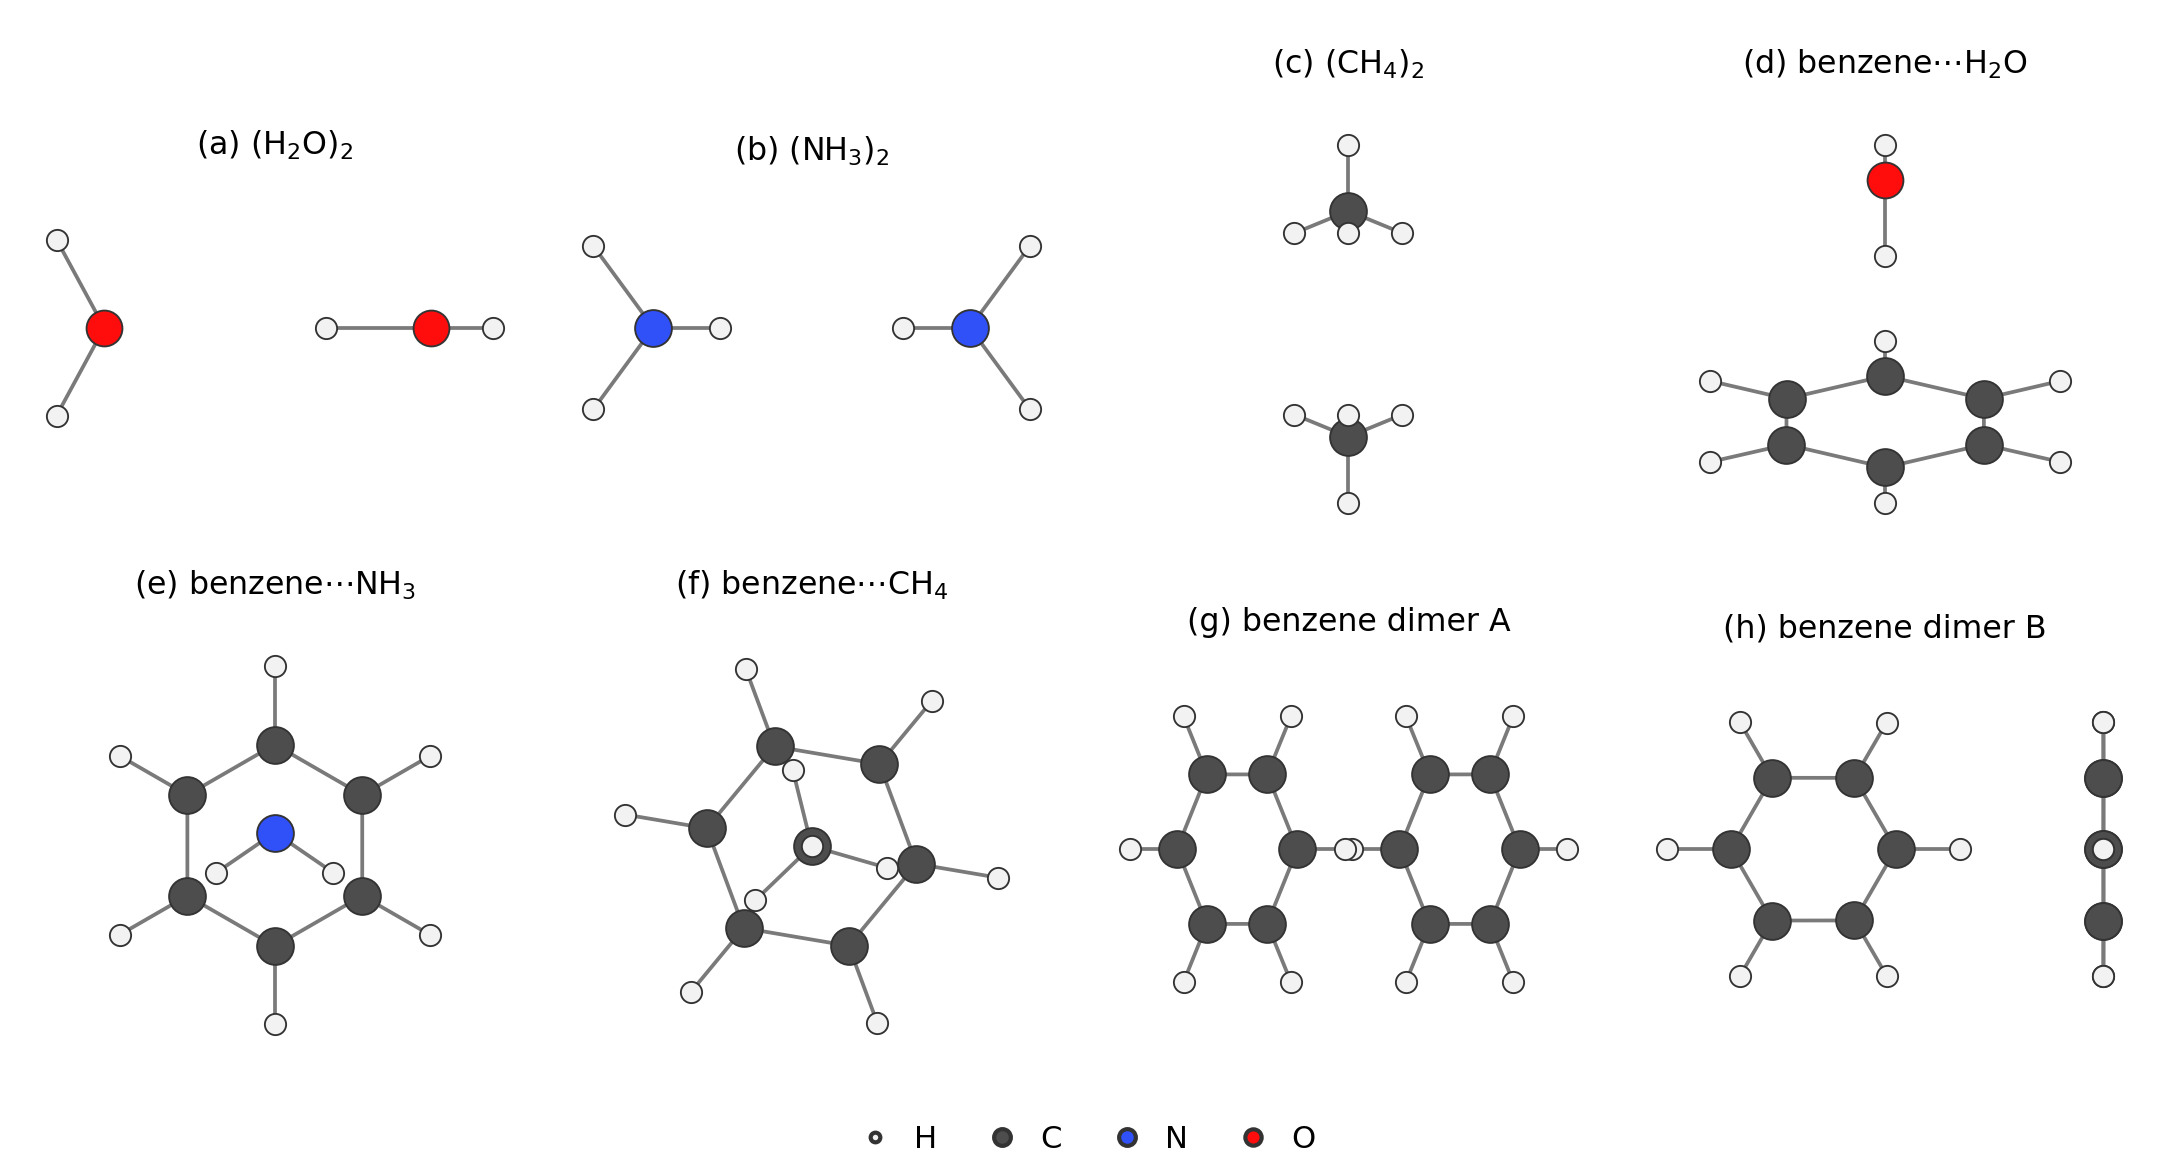
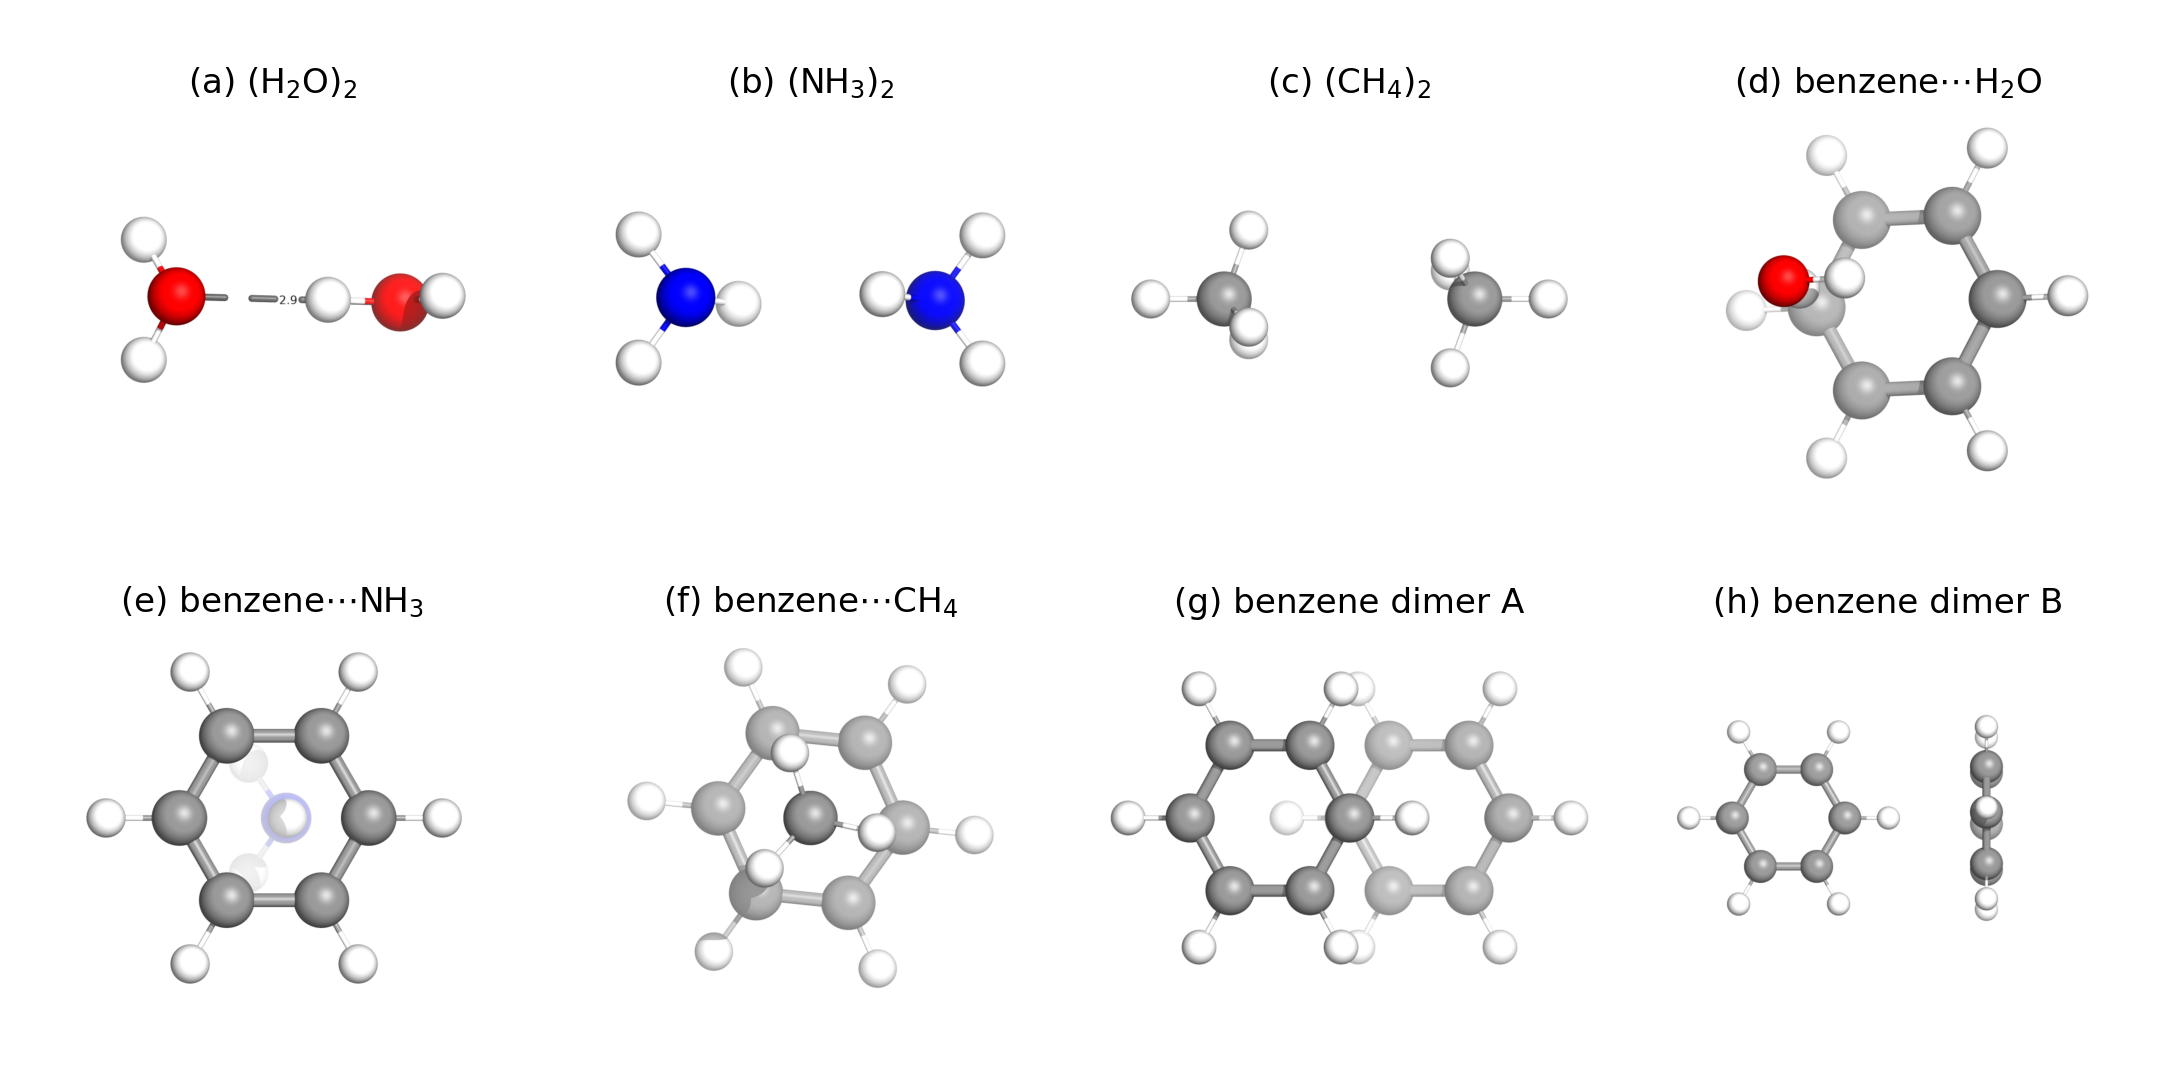
figs: 体系图改用 PyMOL 光线追踪；图宽按"设计尺寸"而不是宽高比
作者指出两件事：体系图的视角让人费解、原子没有质感光泽；另外 Figure 3/4 挤成一团。

- 体系图改用 PyMOL ray tracing（球棍 + 阴影 + 高光），生成脚本 tools/render_systems_pymol.py 可重跑。
  装了两样东西：WSL 里 pip install pymol-open-source；skills.sh 上的 pymol 技能（aminoanalytica/amina-skills@pymol）。
  相机：默认 orient；三格写死一个小转（两个 benzene···X 叠层、平行位移二聚体），
  氢键按 O/N···H 1.5–2.4 Å 自动画虚线（水二聚体那格可见）。
- Figure 3/4 的"拥挤"根因是**图被缩小**：两张图按 6.8 in 设计、却按 0.62 版心印，
  6 pt 的注释只剩不到 4 pt、直接压在曲线上。图宽改为"像素宽 ÷ 200 dpi ÷ 6.3 in"，
  设计尺寸多大就印多大（上限 0.98 版心），不再按宽高比一刀切。

已知未解决：build 时 main.pdf 被 Acrobat 占用写不进去（"I can't write on file main.pdf"），
所以这一笔只含图与生成器；PDF 要等窗口关掉后重出。

[gate-bypass: 清单点名的仍是那份正在增长的三格 level-2 归档；它一落定就重跑表与负控、最后重生成清单]

diff --git a/tools/md2tex.js b/tools/md2tex.js
@@ -381,8 +381,13 @@ while (i < lines.length) {
     // two-panel figure at that width halves the panel size, and a near-square schematic grows
     // taller than the text block. Read the PNG's own pixel size and size by aspect.
     const dim = pngSize(m[2]);
+    // 宽度按"这张图当初的设计宽度"来定，而不是按宽高比一刀切：fig4/fig5 是按 6.8 in 设计的
+    // 多面板图，被压到 0.62 版心后 6 pt 的字只剩不到 4 pt，面板里的注释直接压在曲线上（作者看到
+    // 的"拥挤"就是这个）。像素宽 ÷ 200 dpi ＝ 设计英寸；与 6.3 in 的版心比，得到它该占的比例，
+    // 只在 0.62–0.98 之间取，近方形的大图也能占满版心。
     const aspect = dim && dim.h ? dim.w / dim.h : 1.8;
-    const figW = Math.min(0.95, Math.max(0.62, 0.95 * Math.min(1, aspect / 1.9)));
+    const designIn = dim ? dim.w / 200 : 6.3;
+    const figW = Math.min(0.98, Math.max(0.62, designIn / 6.3));
     console.log('  figure ' + m[2] + ': ' + (dim ? dim.w + 'x' + dim.h : 'size unreadable')
       + ' aspect ' + aspect.toFixed(2) + ' -> width=' + figW.toFixed(2) + '\\textwidth');
     // The caption arrives with its own "**Figure N.**" marker. Handing that to \caption printed

diff --git a/tools/render_systems_pymol.py b/tools/render_systems_pymol.py
@@ -1,0 +1,207 @@
+#!/usr/bin/env python3
+"""Figure: the eight S22 dimers, ray-traced with PyMOL, composed as a 2x4 panel grid.
+
+Why PyMOL and not GaussView: GaussView 6 has no command-line or batch image export (checked:
+`gview.exe -h` returns silently, and its only export path is the File > Save Image dialog), so
+every GaussView figure would have to be driven through the GUI -- the camera angle then depends on
+hand-dragging, which is exactly the "the reader cannot tell what they are looking at" failure this
+figure is meant to fix. PyMOL's ray tracer gives the same publication look (glossy spheres, shadows,
+depth cueing) with the camera set from the coordinates.
+
+The camera rule is the one from the matplotlib version, kept because it worked: of the three
+principal axes, view along the one that puts the two fragment centroids farthest apart on screen.
+A stacked complex seen face-on hides the second molecule inside the ring; seen edge-on it splits
+into two recognisable halves.
+
+Hydrogen bonds are drawn as dashed lines for donor-acceptor H...O/N contacts between 1.5 and
+2.4 A, computed from the coordinates, not guessed.
+
+Usage:
+    python3 tools/render_systems_pymol.py --out figs/fig0_systems.png
+"""
+import argparse
+import os
+import subprocess
+import sys
+import tempfile
+
+import numpy as np
+import matplotlib
+matplotlib.use("Agg")
+import matplotlib.pyplot as plt
+import matplotlib.image as mpimg
+
+PANELS = [
+    ("(a) (H$_2$O)$_2$",           "水二聚体"),
+    ("(b) (NH$_3$)$_2$",           "氨二聚体"),
+    ("(c) (CH$_4$)$_2$",           "甲烷二聚体"),
+    ("(d) benzene$\\cdots$H$_2$O", "苯-水"),
+    ("(e) benzene$\\cdots$NH$_3$", "苯-氨"),
+    ("(f) benzene$\\cdots$CH$_4$", "苯-甲烷"),
+    ("(g) benzene dimer A",        "苯二聚体(A)"),
+    ("(h) benzene dimer B",        "苯二聚体(B)"),
+]
+
+RCOV = {"H": 0.31, "C": 0.76, "N": 0.71, "O": 0.66, "S": 1.05}
+Z2S = {1: "H", 6: "C", 7: "N", 8: "O", 16: "S"}
+
+
+def read_xyz(path):
+    lines = open(path, encoding="utf-8").read().splitlines()
+    nat = int(lines[0].split()[0])
+    syms, xyz = [], []
+    for ln in lines[2:2 + nat]:
+        t = ln.split()
+        syms.append(Z2S[int(t[0])] if t[0].isdigit() else t[0].capitalize())
+        xyz.append([float(v) for v in t[1:4]])
+    if len(syms) != nat:
+        raise SystemExit("%s: declared %d atoms, found %d" % (path, nat, len(syms)))
+    return syms, np.asarray(xyz)
+
+
+def fragments(syms, xyz):
+    """Covalent-connectivity split into the two monomers (BFS over a distance graph)."""
+    n = len(syms)
+    adj = [[] for _ in range(n)]
+    for i in range(n):
+        for j in range(i + 1, n):
+            if np.linalg.norm(xyz[i] - xyz[j]) < 1.25 * (RCOV[syms[i]] + RCOV[syms[j]]):
+                adj[i].append(j)
+                adj[j].append(i)
+    seen, comps = set(), []
+    for s in range(n):
+        if s in seen:
+            continue
+        stack, comp = [s], set()
+        while stack:
+            x = stack.pop()
+            if x in comp:
+                continue
+            comp.add(x)
+            stack += [y for y in adj[x] if y not in comp]
+        seen |= comp
+        comps.append(sorted(comp))
+    if len(comps) != 2:
+        raise SystemExit("切出 %d 个片段，不是二聚体" % len(comps))
+    return comps
+
+
+def view_axis(syms, xyz, frags):
+    """Return 'x', 'y' or 'z' in PyMOL's frame, chosen so the two monomers separate on screen."""
+    p = xyz - xyz.mean(axis=0)
+    best, best_k = -1e9, 0
+    for k in range(3):
+        # projecting onto the plane spanned by the other two axes => viewing along axis k
+        keep = [a for a in range(3) if a != k]
+        xy = p[:, keep]
+        sep = np.linalg.norm(xy[frags[0]].mean(axis=0) - xy[frags[1]].mean(axis=0))
+        span = np.linalg.norm(xy.max(axis=0) - xy.min(axis=0)) or 1.0
+        if sep / span > best:
+            best, best_k = sep / span, k
+    return "xyz"[best_k], best
+
+
+def hbonds(syms, xyz, frags):
+    """Inter-fragment H...O/N contacts in the hydrogen-bond window, as (donor_heavy+1) ... H."""
+    out = []
+    for i in range(len(syms)):
+        if syms[i] not in ("O", "N"):
+            continue
+        for j in range(i + 1, len(syms)):
+            if syms[j] != "H":
+                continue
+            if (i in frags[0]) == (j in frags[0]):
+                continue          # only between the two monomers
+            d = float(np.linalg.norm(xyz[i] - xyz[j]))
+            if 1.5 <= d <= 2.4:
+                out.append((min(i, j), max(i, j)))
+    return out
+
+
+def build_pml(name, path, workdir):
+    syms, xyz = read_xyz(path)
+    frags = fragments(syms, xyz)
+    axis, score = view_axis(syms, xyz, frags)
+    hb = hbonds(syms, xyz, frags)
+    lines = [
+        "load %s, mol" % path,
+        "hide everything",
+        "show spheres, mol",
+        "show sticks, mol",
+        "set sphere_scale, 0.24",
+        "set stick_radius, 0.10",
+        "set valence, off",
+        "color gray60, elem C",
+        "color white, elem H",
+        "color red, elem O",
+        "color blue, elem N",
+        "color yellow, elem S",
+        "set ray_opaque_background, 1",
+        "bg_color white",
+        "set antialias, 2",
+        "set ray_shadow, 1",
+        "set specular, 0.30",
+        "set shininess, 30",
+        "set ambient, 0.30",
+        "set direct, 0.45",
+        "set orthoscopic, 1",
+        "orient mol",
+    ]
+    # 视角：默认交给 orient（沿方差最小的主轴看，平面分子正面朝读者）。
+    # 三格需要一次固定的小转：两个 benzene···X 叠层在 orient 下正好把环看成一条线，
+    # 平行位移二聚体两环投影几乎重合——各转一个写死的角度，让环面与偏移看得见。
+    TURN = {"苯-氨": "turn y, 90", "苯-甲烷": "turn y, 90", "苯二聚体(A)": "turn y, 28"}
+    lines += [TURN.get(name, "turn x, -6")]
+    for k, (a, b) in enumerate(hb):
+        lines += ["distance hb%d, index %d, index %d" % (k, a, b),
+                  "set dash_color, gray40, hb%d" % k,
+                  "set dash_gap, 0.35, hb%d" % k,
+                  "set dash_length, 0.30, hb%d" % k]
+    png = os.path.join(workdir, name + ".png")
+    lines += ["ray 1000, 760", "png %s, dpi=300" % png]
+    pml = os.path.join(workdir, name + ".pml")
+    open(pml, "w", encoding="utf-8").write("\n".join(lines) + "\n")
+    return pml, png, axis, score, len(hb)
+
+
+def main():
+    ap = argparse.ArgumentParser()
+    ap.add_argument("--data-dir", default="scratch/lit/s22")
+    ap.add_argument("--out", default="figs/fig0_systems.png")
+    ap.add_argument("--pymol", default=os.path.expanduser("~/.local/bin/pymol"))
+    args = ap.parse_args()
+
+    sys.path.insert(0, os.getcwd())
+    import nlcsplit.geomlib as geomlib
+
+    work = tempfile.mkdtemp(prefix="sysfig_")
+    pngs = []
+    for label, name in PANELS:
+        path = os.path.join(args.data_dir, geomlib.S22[name])
+        if not os.path.exists(path):
+            raise SystemExit(
+                "%s 不存在。官方几何由 nlcsplit/tools/get_s22.sh 取回，先跑它或给 --data-dir。" % path)
+        pml, png, axis, score, nhb = build_pml(name, path, work)
+        r = subprocess.run([args.pymol, "-cq", pml], capture_output=True, text=True)
+        if not os.path.exists(png):
+            raise SystemExit("%s: PyMOL 没出图。stderr:\n%s" % (name, (r.stdout + r.stderr)[-800:]))
+        print("  %-18s view-axis %s (sep/span %.2f)  H-bonds %d" % (name, axis, score, nhb))
+        pngs.append(png)
+
+    fig, axes = plt.subplots(2, 4, figsize=(7.2, 3.55))
+    for ax, (label, _), png in zip(axes.ravel(), PANELS, pngs):
+        im = mpimg.imread(png)
+        ax.imshow(im)          # 不裁：上一版按 2% 裁边把 (e)(f) 的分子切掉了
+        ax.set_xticks([])
+        ax.set_yticks([])
+        for sp in ax.spines.values():
+            sp.set_visible(False)
+        ax.set_title(label, fontsize=8.2, pad=1.5)
+    fig.subplots_adjust(left=0.005, right=0.995, top=0.94, bottom=0.01, wspace=0.03, hspace=0.10)
+    os.makedirs(os.path.dirname(args.out), exist_ok=True)
+    fig.savefig(args.out, dpi=300)
+    print("wrote %s (%d bytes)" % (args.out, os.path.getsize(args.out)))
+
+
+if __name__ == "__main__":
+    main()
